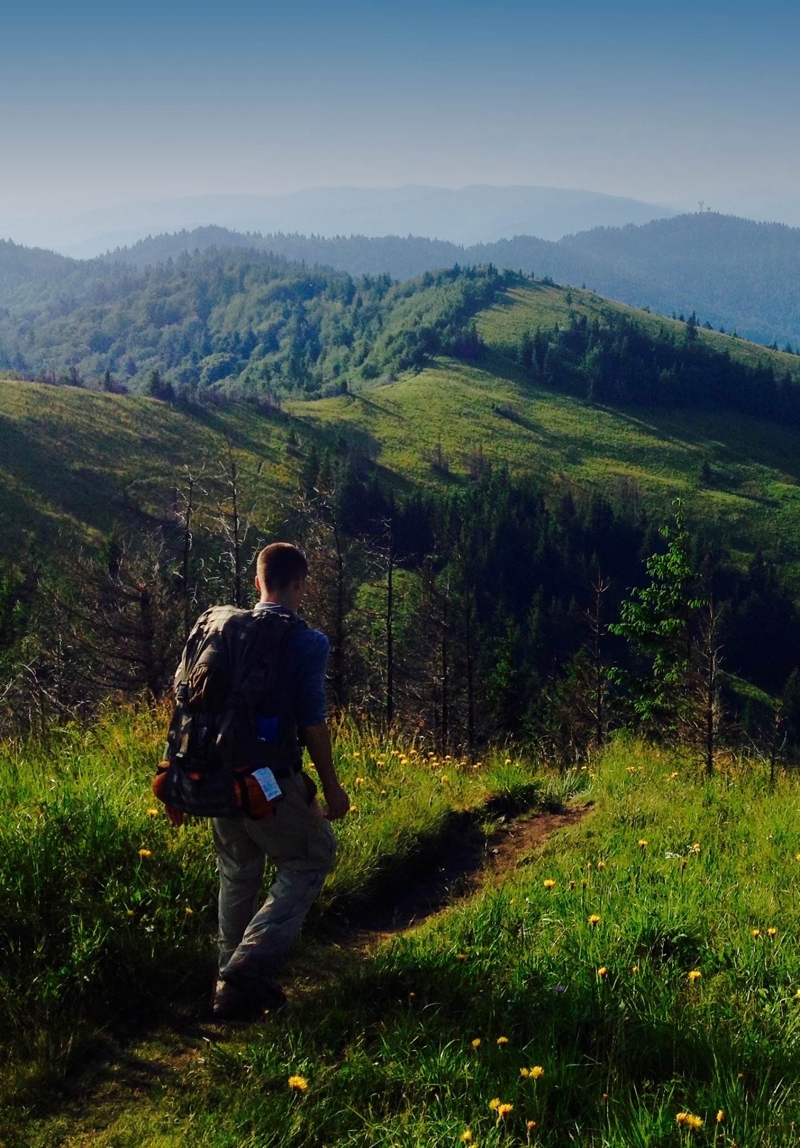
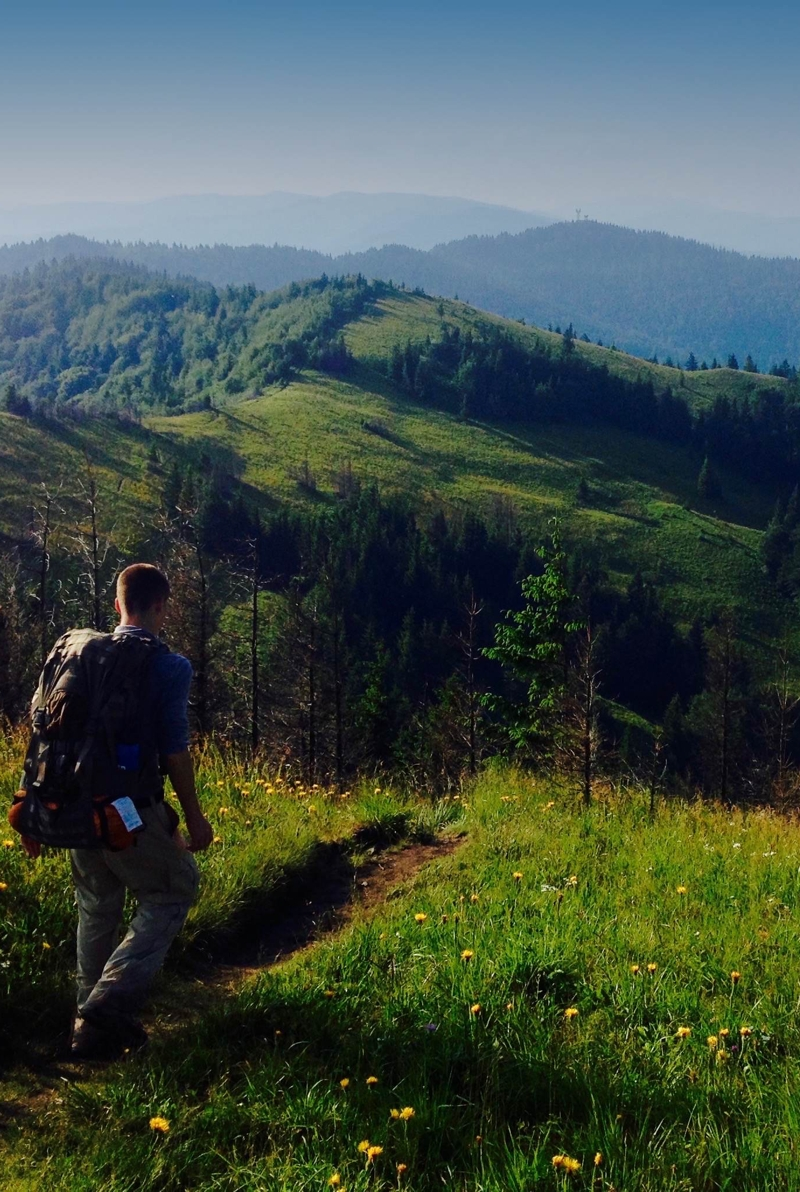
Set animation delay to 4 sec. Adjust crop on hiker portrait image.

diff --git a/source/javascripts/animate.js b/source/javascripts/animate.js
@@ -1,5 +1,5 @@
 $(document).ready(function() {
   setTimeout(function(){
     $(".fa-chevron-down").addClass("shake");
-  }, 5000);
+  }, 4000);
 });
